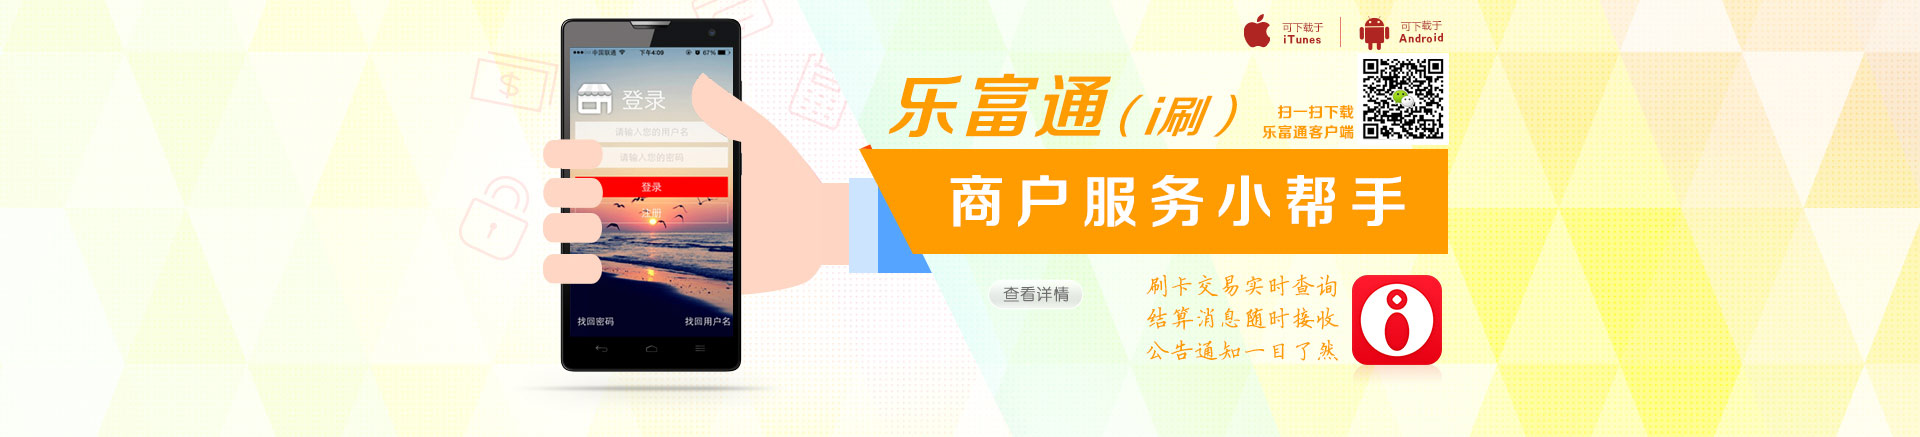
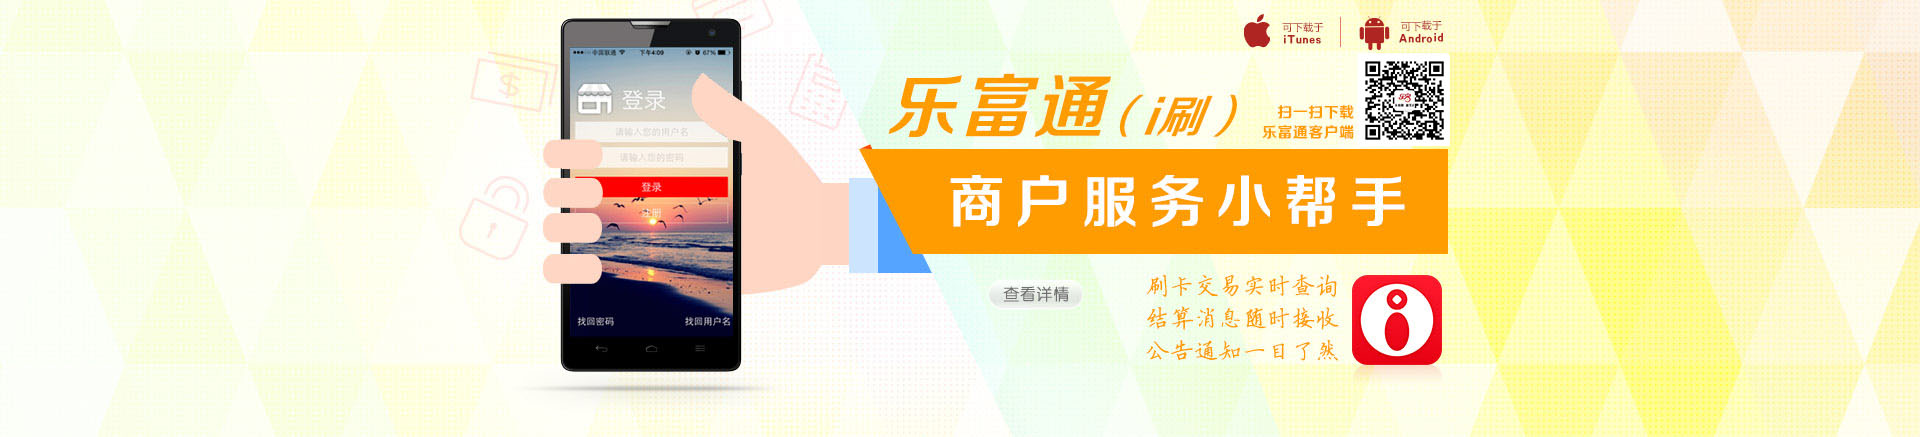
修改logo,二维码,公司名,横幅跳转

Changed region(s): [[0.6875, 0.119, 0.75, 0.3272]]

diff --git a/index.html b/index.html
@@ -2,7 +2,7 @@
 <html lang="en">
 
 <head>
-	<title>北京富迪科技有限公司</title>
+	<title>北京程隆腾飞技术服务有限公司</title>
 	<meta charset="utf-8">
 	<meta name="viewport" content="width=device-width, initial-scale=1.0">
 	<meta name="description" content="Responsive Website Template">
@@ -25,6 +25,11 @@
 	<link rel="shortcut icon" href="assets/ico/favicon.ico">
 </head>
 
+<script type="text/javascript">
+	function ishua_banner(){
+		self.location = "Ishua.html";
+	}
+</script>
 <body>
 	<!-- WRAPPER -->
 	<div id="wrapper">
@@ -51,10 +56,10 @@
 		</nav>
 		<!-- END NAVBAR -->
 		<!-- HERO UNIT -->
-		<section class="hero-unit hero-fullwidth fullwidth-image hero-rotating-words">
+		<section class="hero-unit hero-fullwidth fullwidth-image hero-rotating-words" onclick="ishua_banner();">
 			<div class="hero-content">
 				<!-- <div class="container">
-					<h2 class="heading">富迪科技</h2>
+					<h2 class="heading">程隆腾飞</h2>
 					<p class="lead">让开发更简单</p>
 					
 				</div> -->
@@ -69,7 +74,7 @@
 						<div class="icon-info icon-info-center">
 							<i class="icon icon_lifesaver ico-styled-md"></i>
 							<h3 class="title">免费技术支持</h3>
-							<p>富迪科技为您提供免费的技术支持服务, 您不需要为此支付额外的费用.</p>
+							<p>程隆腾飞为您提供免费的技术支持服务, 您不需要为此支付额外的费用.</p>
 							
 						</div>
 					</div>
@@ -95,7 +100,7 @@
 		<section>
 			<div class="container">
 				<h2 class="section-heading">关于我们</h2>
-				<p>	北京富迪科技有限公司主营全国POS机办理、全国刷卡机安装、办理移动刷卡机、电话刷卡机、网络刷卡机。我们公司主要为全国商户提供无线移动POS机安装，维修以及终身维护等服务。</p>
+				<p>	北京程隆腾飞技术服务有限公司主营全国POS机办理、全国刷卡机安装、办理移动刷卡机、电话刷卡机、网络刷卡机。我们公司主要为全国商户提供无线移动POS机安装，维修以及终身维护等服务。</p>
 				<p>我们公司与<font size="25" color="blue">乐富，中汇，付临门，海科融通</font>等一线知名支付公司合作多年，并且成为他们在全国的一级代理机构。并且以上合作支付公司均有中国人民银行颁发的银行卡支付许可证，在中国人民银行官网均可详细查询到。并且安装的每一台POS机均有一个官方的独立后台，每一笔消费信息均可查询。还可跟总部进行电话核实商户信息以及真实性，因此广大商户完全可以大胆安装，放心使用，不必有任何顾虑。</p>
 				<p>	我们公司在北京地区设有50多家服务网点，资料齐全最快1小时之内可上门为广大商户提供服务。跟我们合作使您安全上放心，使用过程中舒心，刷卡后安心。您还有什么顾虑，赶快来电与我们建立合作吧！</p>
 			</div>

diff --git a/page-about.html b/page-about.html
@@ -2,7 +2,7 @@
 <html lang="en">
 
 <head>
-	<title>关于 | 富迪科技</title>
+	<title>关于 | 程隆腾飞</title>
 	<meta charset="utf-8">
 	<meta name="viewport" content="width=device-width, initial-scale=1.0">
 	<meta name="description" content="Responsive Website Template">
@@ -70,7 +70,7 @@
 					<div class="row">
 						<div class="col-md-7">
 							<h2 class="section-heading">关于我们</h2>
-				<p>	北京富迪科技有限公司主营全国POS机办理、全国刷卡机安装、办理移动刷卡机、电话刷卡机、网络刷卡机。我们公司主要为全国商户提供无线移动POS机安装，维修以及终身维护等服务。</p>
+				<p>	北京程隆腾飞技术服务有限公司主营全国POS机办理、全国刷卡机安装、办理移动刷卡机、电话刷卡机、网络刷卡机。我们公司主要为全国商户提供无线移动POS机安装，维修以及终身维护等服务。</p>
 				<p>我们公司与<font size="25" color="blue">乐富，中汇，付临门，海科融通</font>等一线知名支付公司合作多年，并且成为他们在全国的一级代理机构。并且以上合作支付公司均有中国人民银行颁发的银行卡支付许可证，在中国人民银行官网均可详细查询到。并且安装的每一台POS机均有一个官方的独立后台，每一笔消费信息均可查询。还可跟总部进行电话核实商户信息以及真实性，因此广大商户完全可以大胆安装，放心使用，不必有任何顾虑。</p>
 				<p>	我们公司在北京地区设有50多家服务网点，资料齐全最快1小时之内可上门为广大商户提供服务。跟我们合作使您安全上放心，使用过程中舒心，刷卡后安心。您还有什么顾虑，赶快来电与我们建立合作吧！</p>
 						</div>

diff --git a/assets/html/footer.html b/assets/html/footer.html
@@ -2,7 +2,7 @@
 <html lang="en">
 
 <head>
-	<title>富迪科技</title>
+	<title>程隆腾飞</title>
 	<meta charset="utf-8">
 	<meta name="viewport" content="width=device-width, initial-scale=1.0">
 	<meta name="description" content="Responsive Website Template">
@@ -30,7 +30,7 @@
 			<div class="container">
 						 	<div style="margin:0 auto; padding:20px 0;">
 						 		<a target="_blank" href="http://www.beian.gov.cn/portal/registerSystemInfo?recordcode=11010502033507" style="float:right;display:inline-block;text-decoration:none;height:20px;line-height:20px;"><img src="../img/gabeian.png" style="float:left;"/><p style="float:left;height:20px;line-height:20px;margin: 0px 0px 0px 5px; color:#939393;">京公网安备 11010502033507号</p></a>
-						 		<p style="float:right;height:20px;line-height:20px;margin: 0px 0px 0px 5px; color:#939393;">&copy;2017 富迪科技. All Rights Reserved. &nbsp &nbsp &nbsp京ICP备17035738号&nbsp &nbsp &nbsp</p>
+						 		<p style="float:right;height:20px;line-height:20px;margin: 0px 0px 0px 5px; color:#939393;">&copy;2017 程隆腾飞. All Rights Reserved. &nbsp &nbsp &nbsp京ICP备17035738号&nbsp &nbsp &nbsp</p>
 		 		
 		 	</div>
 			</div>

diff --git a/Ishua.html b/Ishua.html
@@ -5,7 +5,7 @@
 <style type="text/css">
 	
 </style>
-	<title>我们的产品 | 富迪科技</title>
+	<title>我们的产品 | 程隆腾飞</title>
 	<meta charset="utf-8">
 	<meta name="viewport" content="width=device-width, initial-scale=1.0">
 	<meta name="description" content="Responsive Website Template">

diff --git a/fuTmpShua.html b/fuTmpShua.html
@@ -5,7 +5,7 @@
 <style type="text/css">
 	
 </style>
-	<title>我们的产品 | 富迪科技</title>
+	<title>我们的产品 | 程隆腾飞</title>
 	<meta charset="utf-8">
 	<meta name="viewport" content="width=device-width, initial-scale=1.0">
 	<meta name="description" content="Responsive Website Template">

diff --git a/lefuBigPos.html b/lefuBigPos.html
@@ -5,7 +5,7 @@
 <style type="text/css">
 	
 </style>
-	<title>我们的产品 | 富迪科技</title>
+	<title>我们的产品 | 程隆腾飞</title>
 	<meta charset="utf-8">
 	<meta name="viewport" content="width=device-width, initial-scale=1.0">
 	<meta name="description" content="Responsive Website Template">

diff --git a/onlineSupport.html b/onlineSupport.html
@@ -5,7 +5,7 @@
 <style type="text/css">
 	
 </style>
-	<title>我们的产品 | 富迪科技</title>
+	<title>我们的产品 | 程隆腾飞</title>
 	<meta charset="utf-8">
 	<meta name="viewport" content="width=device-width, initial-scale=1.0">
 	<meta name="description" content="Responsive Website Template">

diff --git a/page-services.html b/page-services.html
@@ -5,7 +5,7 @@
 <style type="text/css">
 	
 </style>
-	<title>我们的产品 | 富迪科技</title>
+	<title>我们的产品 | 程隆腾飞</title>
 	<meta charset="utf-8">
 	<meta name="viewport" content="width=device-width, initial-scale=1.0">
 	<meta name="description" content="Responsive Website Template">

diff --git a/zftPos.html b/zftPos.html
@@ -5,7 +5,7 @@
 <style type="text/css">
 	
 </style>
-	<title>我们的产品 | 富迪科技</title>
+	<title>我们的产品 | 程隆腾飞</title>
 	<meta charset="utf-8">
 	<meta name="viewport" content="width=device-width, initial-scale=1.0">
 	<meta name="description" content="Responsive Website Template">

diff --git a/page-news.html b/page-news.html
@@ -2,7 +2,7 @@
 <html lang="en">
 
 <head>
-	<title>富迪科技</title>
+	<title>程隆腾飞</title>
 	<meta charset="utf-8">
 	<meta name="viewport" content="width=device-width, initial-scale=1.0">
 	<meta name="description" content="Responsive Website Template">

diff --git a/assets/css/main.css b/assets/css/main.css
@@ -5893,6 +5893,7 @@ div[class*="col-"] .icon-info-center {
   background-position: center center;
   background-repeat: no-repeat;
   background-size: cover;
+  cursor: pointer;
 }
 .fullwidth-image .heading,
 .fullwidth-image .lead {
